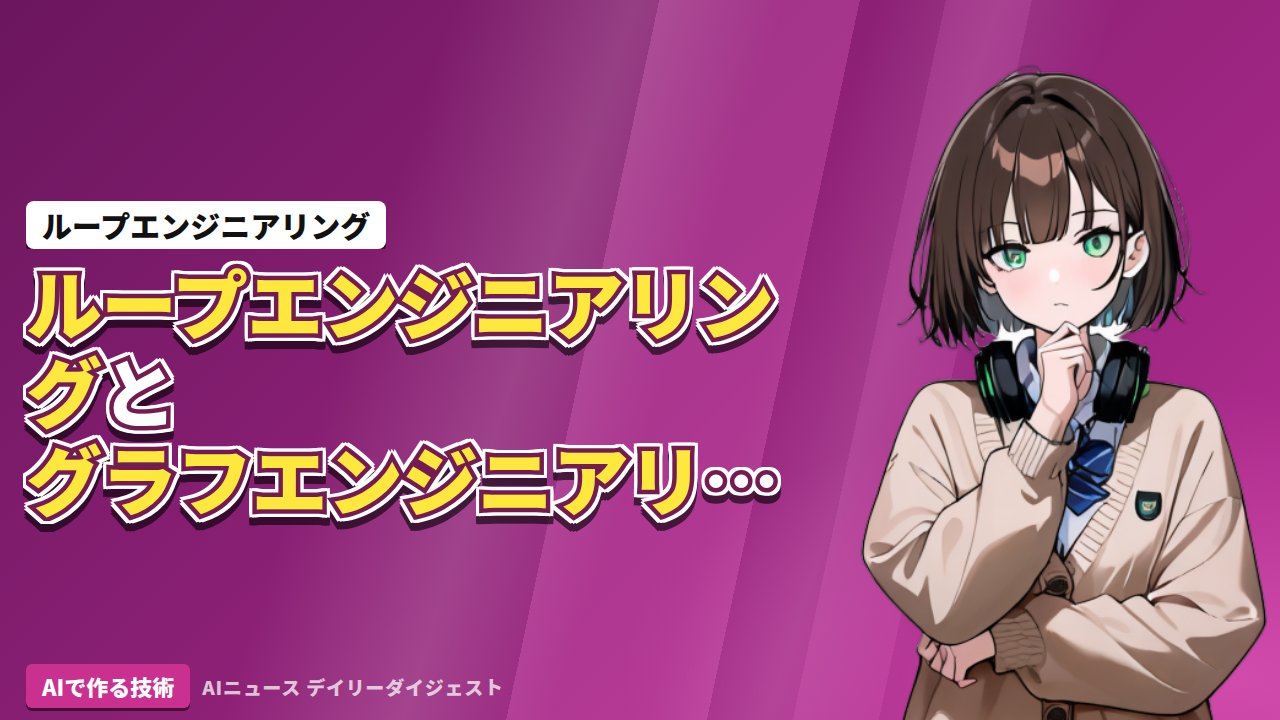
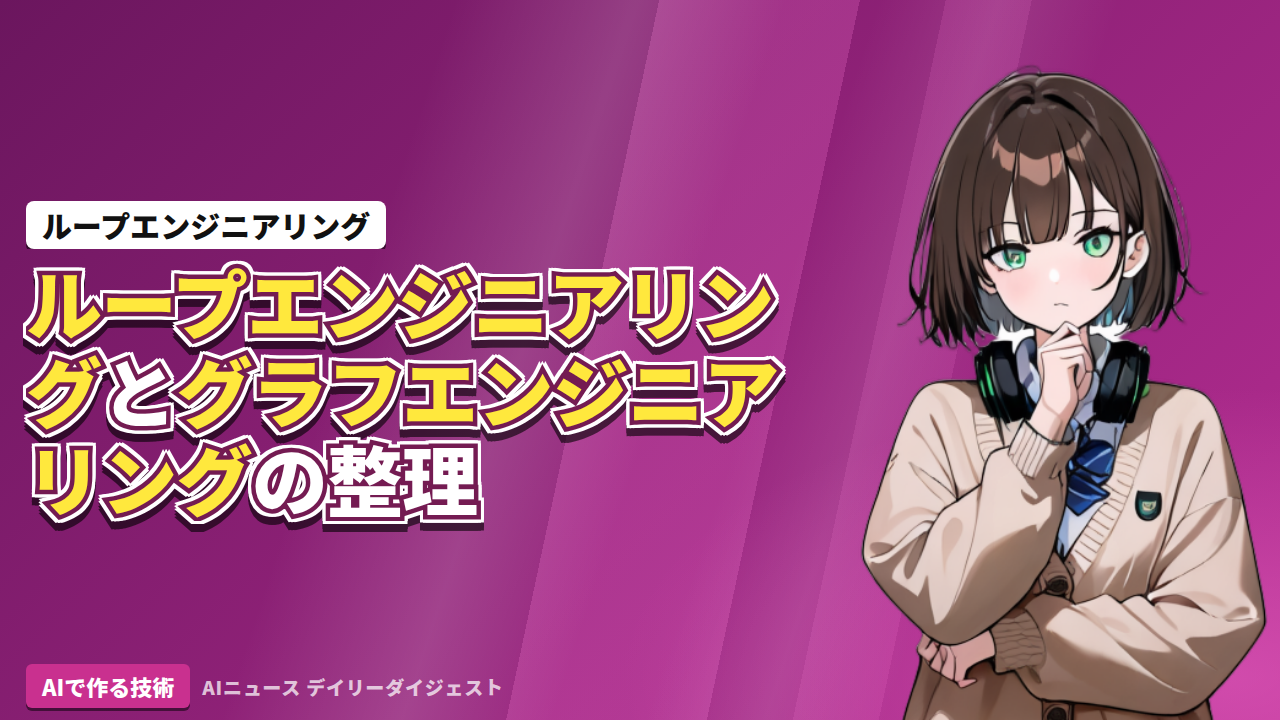
サムネイルの禁則処理を直し、「…」潰れを全て解消した
- 禁則: line-break:strict(行頭の小書き・長音・句読点を禁止) + 英数字トークンの
  nowrap(「GLM-5.3」の泣き別れ防止)。折り返し自体は word-break:normal
- auto-phrase(文節折り)も試したが、行が埋まりきらず7枚のタイトルが「…」で
  潰れたためやめた(全25枚を一覧で実測して確認)
- hooks-guardrails はタイトルが長いので meta.json の thumb で決め文句を指定

全25枚を一覧2面で目視確認: 「…」潰れゼロ・下端の切れゼロ・行頭禁則違反なし。

Changed region(s): [[0.0, 0.4889, 0.625, 0.7639]]

diff --git a/_render_thumbs.py b/_render_thumbs.py
@@ -496,9 +496,11 @@ body{{font-family:'NotoJP','IPAGothic',sans-serif;background:#000}}
     drop-shadow(3px 0 0 #fff) drop-shadow(-3px 0 0 #fff)
     drop-shadow(0 3px 0 #fff) drop-shadow(0 -3px 0 #fff)
     drop-shadow(0 8px 0 rgba(0,0,0,.6));
-  /* 禁則: 文節で折り(auto-phrase)、行頭の小書き・長音を禁じる(strict)。
-     anywhere はどこでも割ってしまう(「フ/ック」の泣き別れが出る)ので使わない */
-  word-break:auto-phrase;line-break:strict;overflow-wrap:break-word;
+  /* 禁則: 行頭の小書き・長音・句読点を禁じる(strict)。
+     anywhere はどこでも割ってしまう(「フ/ック」の行頭ッが出る)ので使わない。
+     auto-phrase(文節折り)は行が埋まらず「…」潰れが7枚出たのでやめた(実測)。
+     英数字のトークンは nowrap_latin() が包むので泣き別れしない */
+  word-break:normal;line-break:strict;overflow-wrap:break-word;
   letter-spacing:-.01em;
   /* 行間は1.16。詰める(1.05)と最終行の下端と縁取りが overflow:hidden に切られる。
      padding で逃がす方式は line-clamp と干渉して、溢れた行の上端が覗く(実測)。
@@ -510,7 +512,7 @@ body{{font-family:'NotoJP','IPAGothic',sans-serif;background:#000}}
 /* 補足。背景が明るいと白文字が負けるので、暗い下地を敷く */
 .sub{{
   color:#fff;font-weight:900;font-size:{sub_px}px;line-height:1.3;
-  word-break:auto-phrase;line-break:strict;overflow-wrap:break-word;
+  word-break:normal;line-break:strict;overflow-wrap:break-word;
   display:-webkit-box;-webkit-line-clamp:2;-webkit-box-orient:vertical;overflow:hidden;
 }}
 .sub b{{
